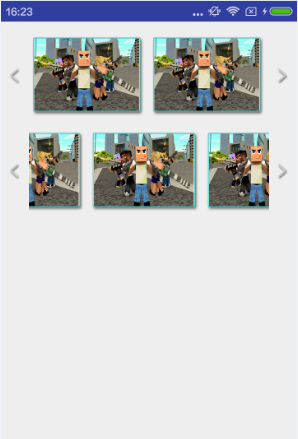
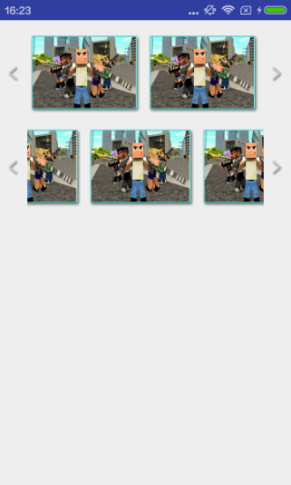
add project

diff --git a/README.md b/README.md
@@ -1,4 +1,4 @@
-#SubsectionSeekbar
+#GalleryView
 
 xmlns:app="http://schemas.android.com/apk/res-auto"
 
